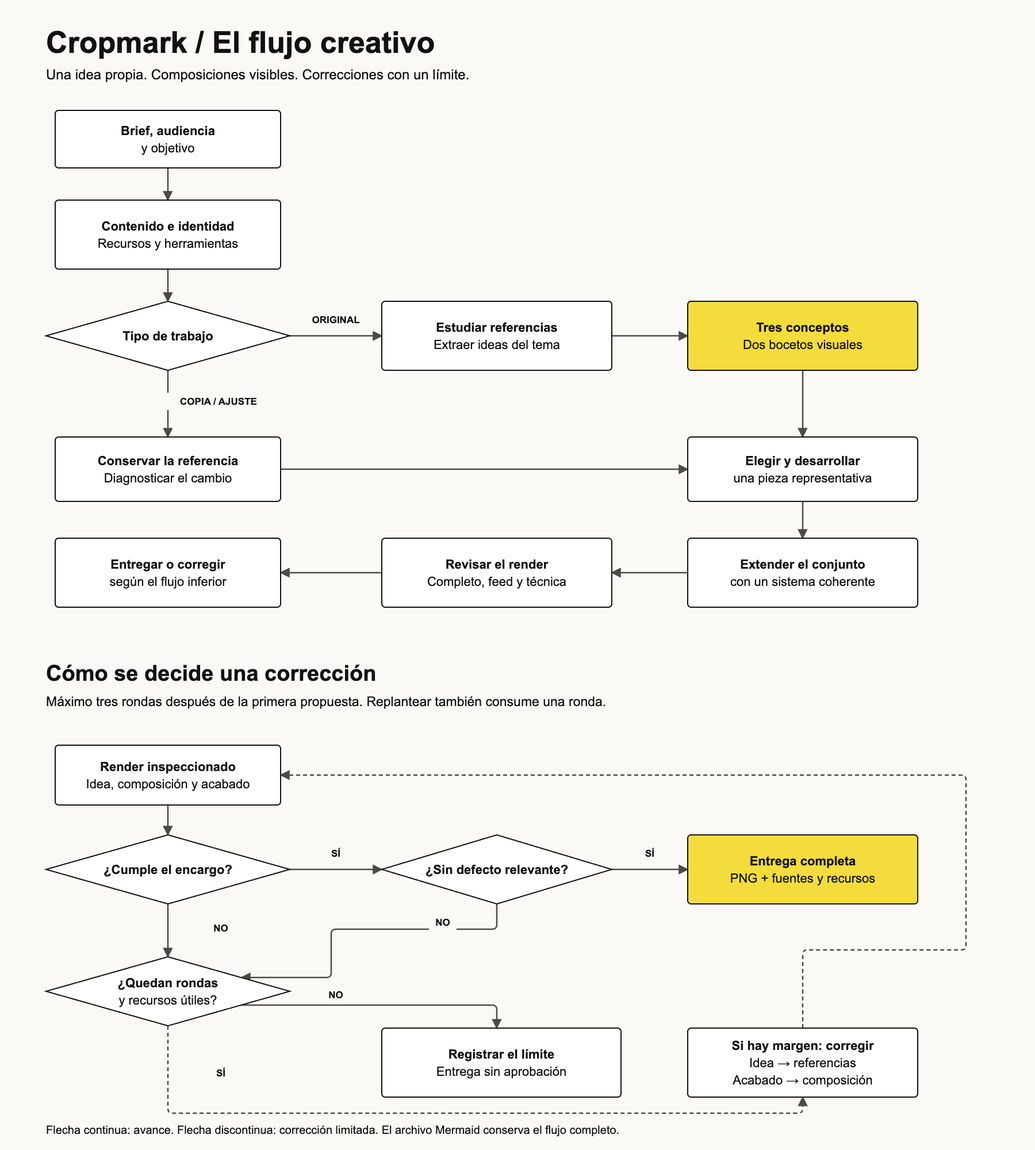
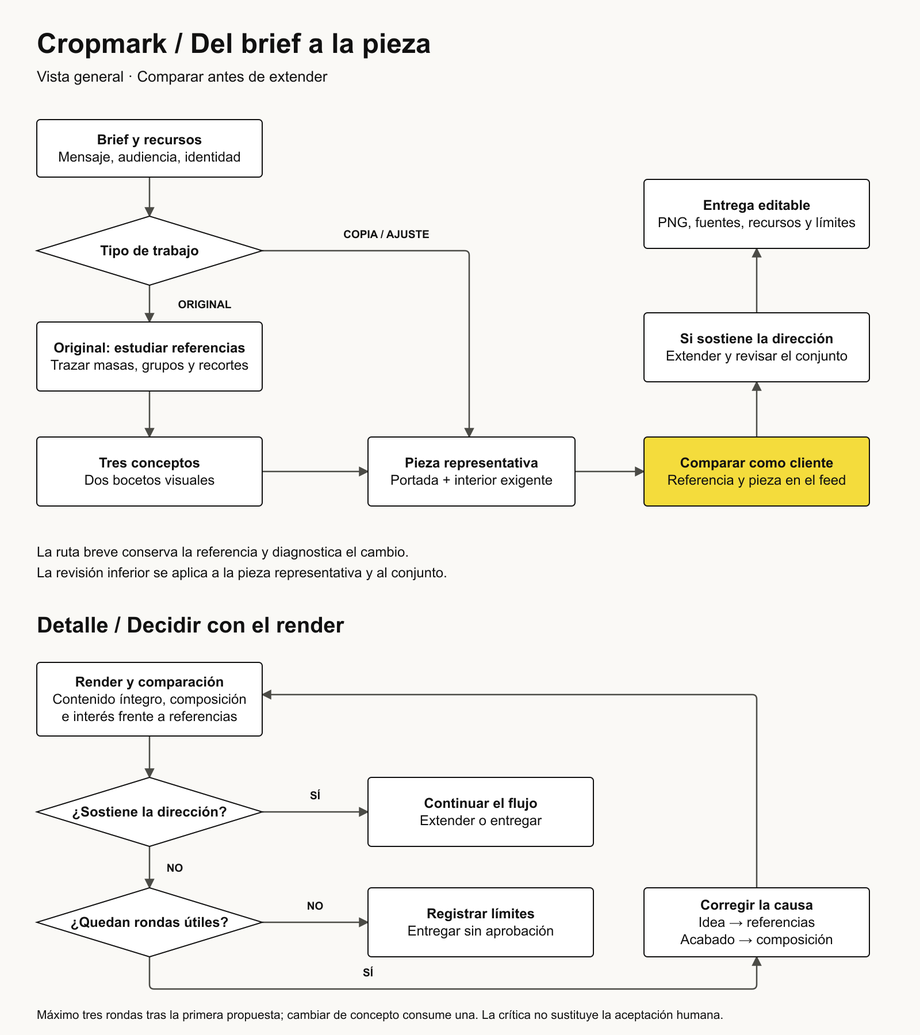
feat: compare measured compositions before extending designs

diff --git a/docs/visuals/creative-flow.html b/docs/visuals/creative-flow.html
@@ -1,1 +1,1 @@
-<!doctype html><html lang="es"><meta charset="utf-8"><meta name="viewport" content="width=device-width,initial-scale=1"><title>Cropmark · flujo creativo</title><style>body{margin:0;background:#faf9f6;color:#111;font-family:Arial,sans-serif}main{max-width:1200px;margin:auto;padding:56px 32px}h1{font-size:48px;letter-spacing:-.04em;line-height:1.05;max-width:900px}h2{font-size:25px;margin:0 0 12px}p{font-size:17px;line-height:1.5;max-width:900px}a{color:inherit}section{margin:48px 0 72px}figure{margin:20px 0}svg text{font-family:Arial,sans-serif}svg{width:100%;height:auto}figcaption,.note{font-size:14px;color:#4b4b46}article{break-inside:avoid} .pair{display:grid;grid-template-columns:1fr 1fr;gap:24px}.panel{background:#eeeae0;padding:20px} .label{font-size:14px;font-weight:700} @media(max-width:700px){.pair{grid-template-columns:1fr}h1{font-size:36px}}</style><main><div style="overflow-x:auto"><svg xmlns="http://www.w3.org/2000/svg" viewBox="0 0 1800 2000" role="img" aria-labelledby="flow-title flow-desc"><title id="flow-title">Cropmark: del brief a la revisión</title><desc id="flow-desc">El trabajo original explora conceptos y bocetos; la copia fiel toma una ruta breve, y la revisión permite hasta tres correcciones antes de entregar o declarar límites.</desc><defs><style>body{margin:0;background:#faf9f6;color:#111;font-family:Arial,sans-serif}main{max-width:1200px;margin:auto;padding:56px 32px}h1{font-size:48px;letter-spacing:-.04em;line-height:1.05;max-width:900px}h2{font-size:25px;margin:0 0 12px}p{font-size:17px;line-height:1.5;max-width:900px}a{color:inherit}section{margin:48px 0 72px}figure{margin:20px 0}svg text{font-family:Arial,sans-serif}svg{width:100%;height:auto}figcaption,.note{font-size:14px;color:#4b4b46}article{break-inside:avoid} .pair{display:grid;grid-template-columns:1fr 1fr;gap:24px}.panel{background:#eeeae0;padding:20px} .label{font-size:14px;font-weight:700} @media(max-width:700px){.pair{grid-template-columns:1fr}h1{font-size:36px}}</style><marker id="flow-arrow" viewBox="0 0 10 10" refX="9" refY="5" markerWidth="7" markerHeight="7" orient="auto"><path d="M0 0 L10 5 L0 10 Z" fill="#4b4b46"/></marker></defs><rect width="1800" height="2000" fill="#faf9f6"/><text x="80" y="92" font-size="52" font-weight="700" fill="#111" text-anchor="start">Cropmark / El flujo creativo</text><text x="80" y="138" font-size="24" font-weight="400" fill="#111" text-anchor="start">Una idea propia. Composiciones visibles. Correcciones con un límite.</text><path d="M292 292 L292 348" fill="none" stroke="#4b4b46" stroke-width="2.5" marker-end="url(#flow-arrow)"/><path d="M292 468 L292 524" fill="none" stroke="#4b4b46" stroke-width="2.5" marker-end="url(#flow-arrow)"/><path d="M504 584 L664 584" fill="none" stroke="#4b4b46" stroke-width="2.5" marker-end="url(#flow-arrow)"/><path d="M1064 584 L1196 584" fill="none" stroke="#4b4b46" stroke-width="2.5" marker-end="url(#flow-arrow)"/><path d="M292 644 L292 760" fill="none" stroke="#4b4b46" stroke-width="2.5" marker-end="url(#flow-arrow)"/><path d="M488 816 L1196 816" fill="none" stroke="#4b4b46" stroke-width="2.5" marker-end="url(#flow-arrow)"/><path d="M1396 644 L1396 760" fill="none" stroke="#4b4b46" stroke-width="2.5" marker-end="url(#flow-arrow)"/><path d="M1396 872 L1396 936" fill="none" stroke="#4b4b46" stroke-width="2.5" marker-end="url(#flow-arrow)"/><path d="M1196 996 L1064 996" fill="none" stroke="#4b4b46" stroke-width="2.5" marker-end="url(#flow-arrow)"/><path d="M664 996 L488 996" fill="none" stroke="#4b4b46" stroke-width="2.5" marker-end="url(#flow-arrow)"/><rect x="524.0" y="541" width="120" height="30" fill="#faf9f6"/><text x="584" y="562" font-size="17" font-weight="700" fill="#111" text-anchor="middle">ORIGINAL</text><rect x="284.0" y="683" width="192" height="30" fill="#faf9f6"/><text x="380" y="704" font-size="17" font-weight="700" fill="#111" text-anchor="middle">COPIA / AJUSTE</text><rect x="96" y="192" width="392" height="100" rx="6" fill="#fff" stroke="#111" stroke-width="2"/><text x="292.0" y="235.0" font-size="22" font-weight="700" fill="#111" text-anchor="middle">Brief, audiencia</text><text x="292.0" y="265.0" font-size="22" font-weight="400" fill="#111" text-anchor="middle">y objetivo</text><rect x="96" y="348" width="392" height="120" rx="6" fill="#fff" stroke="#111" stroke-width="2"/><text x="292.0" y="401.0" font-size="22" font-weight="700" fill="#111" text-anchor="middle">Contenido e identidad</text><text x="292.0" y="431.0" font-size="22" font-weight="400" fill="#111" text-anchor="middle">Recursos y herramientas</text><polygon points="80,584.0 292.0,524 504,584.0 292.0,644" fill="#fff" stroke="#111" stroke-width="2"/><text x="292.0" y="592.0" font-size="22" font-weight="700" fill="#111" text-anchor="middle">Tipo de trabajo</text><rect x="664" y="524" width="400" height="120" rx="6" fill="#fff" stroke="#111" stroke-width="2"/><text x="864.0" y="577.0" font-size="22" font-weight="700" fill="#111" text-anchor="middle">Estudiar referencias</text><text x="864.0" y="607.0" font-size="22" font-weight="400" fill="#111" text-anchor="middle">Extraer ideas del tema</text><rect x="1196" y="524" width="400" height="120" rx="6" fill="#F4DC3C" stroke="#111" stroke-width="2"/><text x="1396.0" y="577.0" font-size="22" font-weight="700" fill="#111" text-anchor="middle">Tres conceptos</text><text x="1396.0" y="607.0" font-size="22" font-weight="400" fill="#111" text-anchor="middle">Dos bocetos visuales</text><rect x="96" y="760" width="392" height="112" rx="6" fill="#fff" stroke="#111" stroke-width="2"/><text x="292.0" y="809.0" font-size="22" font-weight="700" fill="#111" text-anchor="middle">Conservar la referencia</text><text x="292.0" y="839.0" font-size="22" font-weight="400" fill="#111" text-anchor="middle">Diagnosticar el cambio</text><rect x="1196" y="760" width="400" height="112" rx="6" fill="#fff" stroke="#111" stroke-width="2"/><text x="1396.0" y="809.0" font-size="22" font-weight="700" fill="#111" text-anchor="middle">Elegir y desarrollar</text><text x="1396.0" y="839.0" font-size="22" font-weight="400" fill="#111" text-anchor="middle">una pieza representativa</text><rect x="1196" y="936" width="400" height="120" rx="6" fill="#fff" stroke="#111" stroke-width="2"/><text x="1396.0" y="989.0" font-size="22" font-weight="700" fill="#111" text-anchor="middle">Extender el conjunto</text><text x="1396.0" y="1019.0" font-size="22" font-weight="400" fill="#111" text-anchor="middle">con un sistema coherente</text><rect x="664" y="936" width="400" height="120" rx="6" fill="#fff" stroke="#111" stroke-width="2"/><text x="864.0" y="989.0" font-size="22" font-weight="700" fill="#111" text-anchor="middle">Revisar el render</text><text x="864.0" y="1019.0" font-size="22" font-weight="400" fill="#111" text-anchor="middle">Completo, feed y técnica</text><rect x="96" y="936" width="392" height="120" rx="6" fill="#fff" stroke="#111" stroke-width="2"/><text x="292.0" y="989.0" font-size="22" font-weight="700" fill="#111" text-anchor="middle">Entregar o corregir</text><text x="292.0" y="1019.0" font-size="22" font-weight="400" fill="#111" text-anchor="middle">según el flujo inferior</text><text x="80" y="1184" font-size="38" font-weight="700" fill="#111" text-anchor="start">Cómo se decide una corrección</text><text x="80" y="1228" font-size="23" font-weight="400" fill="#111" text-anchor="start">Máximo tres rondas después de la primera propuesta. Replantear también consume una ronda.</text><path d="M292 1400 L292 1452" fill="none" stroke="#4b4b46" stroke-width="2.5" marker-end="url(#flow-arrow)"/><path d="M504 1512 L664 1512" fill="none" stroke="#4b4b46" stroke-width="2.5" marker-end="url(#flow-arrow)"/><path d="M1064 1512 L1196 1512" fill="none" stroke="#4b4b46" stroke-width="2.5" marker-end="url(#flow-arrow)"/><path d="M292 1572 L292 1664" fill="none" stroke="#4b4b46" stroke-width="2.5" marker-end="url(#flow-arrow)"/><path d="M420 1748 L856.0 1748.0 Q864 1748 864.0 1756.0 L864 1788" fill="none" stroke="#4b4b46" stroke-width="2.5" marker-end="url(#flow-arrow)"/><path d="M864 1572 L864.0 1608.0 Q864 1616 856.0 1616.0 L584.0 1616.0 Q576 1616 576.0 1624.0 L576.0 1692.0 Q576 1700 568.0 1700.0 L420 1700" fill="none" stroke="#4b4b46" stroke-width="2.5" marker-end="url(#flow-arrow)"/><path d="M1396 1788 L1396.0 1660.0 Q1396 1652 1404.0 1652.0 L1672.0 1652.0 Q1680 1652 1680.0 1644.0 L1680.0 1356.0 Q1680 1348 1672.0 1348.0 L488 1348" fill="none" stroke="#4b4b46" stroke-width="2.5" marker-end="url(#flow-arrow)" stroke-dasharray="7 5"/><rect x="746.0" y="1589" width="48" height="30" fill="#faf9f6"/><text x="770" y="1610" font-size="17" font-weight="700" fill="#111" text-anchor="middle">NO</text><rect x="560.0" y="1469" width="48" height="30" fill="#faf9f6"/><text x="584" y="1490" font-size="17" font-weight="700" fill="#111" text-anchor="middle">SÍ</text><rect x="1106.0" y="1469" width="48" height="30" fill="#faf9f6"/><text x="1130" y="1490" font-size="17" font-weight="700" fill="#111" text-anchor="middle">SÍ</text><rect x="360.0" y="1599" width="48" height="30" fill="#faf9f6"/><text x="384" y="1620" font-size="17" font-weight="700" fill="#111" text-anchor="middle">NO</text><rect x="560.0" y="1715" width="48" height="30" fill="#faf9f6"/><text x="584" y="1736" font-size="17" font-weight="700" fill="#111" text-anchor="middle">NO</text><rect x="96" y="1296" width="392" height="104" rx="6" fill="#fff" stroke="#111" stroke-width="2"/><text x="292.0" y="1341.0" font-size="22" font-weight="700" fill="#111" text-anchor="middle">Render inspeccionado</text><text x="292.0" y="1371.0" font-size="22" font-weight="400" fill="#111" text-anchor="middle">Idea, composición y acabado</text><polygon points="80,1512.0 292.0,1452 504,1512.0 292.0,1572" fill="#fff" stroke="#111" stroke-width="2"/><text x="292.0" y="1520.0" font-size="22" font-weight="700" fill="#111" text-anchor="middle">¿Cumple el encargo?</text><polygon points="664,1512.0 864.0,1452 1064,1512.0 864.0,1572" fill="#fff" stroke="#111" stroke-width="2"/><text x="864.0" y="1520.0" font-size="22" font-weight="700" fill="#111" text-anchor="middle">¿Sin defecto relevante?</text><rect x="1196" y="1452" width="400" height="120" rx="6" fill="#F4DC3C" stroke="#111" stroke-width="2"/><text x="1396.0" y="1505.0" font-size="22" font-weight="700" fill="#111" text-anchor="middle">Entrega completa</text><text x="1396.0" y="1535.0" font-size="22" font-weight="400" fill="#111" text-anchor="middle">PNG + fuentes y recursos</text><polygon points="80,1724.0 292.0,1664 504,1724.0 292.0,1784" fill="#fff" stroke="#111" stroke-width="2"/><text x="292.0" y="1717.0" font-size="22" font-weight="700" fill="#111" text-anchor="middle">¿Quedan rondas</text><text x="292.0" y="1747.0" font-size="22" font-weight="400" fill="#111" text-anchor="middle">y recursos útiles?</text><rect x="664" y="1788" width="416" height="120" rx="6" fill="#fff" stroke="#111" stroke-width="2"/><text x="872.0" y="1841.0" font-size="22" font-weight="700" fill="#111" text-anchor="middle">Registrar el límite</text><text x="872.0" y="1871.0" font-size="22" font-weight="400" fill="#111" text-anchor="middle">Entrega sin aprobación</text><rect x="1196" y="1788" width="400" height="120" rx="6" fill="#fff" stroke="#111" stroke-width="2"/><text x="1396.0" y="1826.0" font-size="22" font-weight="700" fill="#111" text-anchor="middle">Si hay margen: corregir</text><text x="1396.0" y="1856.0" font-size="22" font-weight="400" fill="#111" text-anchor="middle">Idea → referencias</text><text x="1396.0" y="1886.0" font-size="22" font-weight="400" fill="#111" text-anchor="middle">Acabado → composición</text><path d="M292 1784 L292.0 1928.0 Q292 1936 300.0 1936.0 L1388.0 1936.0 Q1396 1936 1396.0 1928.0 L1396 1908" fill="none" stroke="#4b4b46" stroke-width="2.5" marker-end="url(#flow-arrow)" stroke-dasharray="7 5"/><rect x="360.0" y="1851" width="48" height="30" fill="#faf9f6"/><text x="384" y="1872" font-size="17" font-weight="700" fill="#111" text-anchor="middle">SÍ</text><text x="80" y="1972" font-size="20" font-weight="400" fill="#111" text-anchor="start">Flecha continua: avance. Flecha discontinua: corrección limitada. El archivo Mermaid conserva el flujo completo.</text></svg></div><p>Lectura condensada: «tres conceptos» y «dos bocetos» comparten una estación; el detalle inferior hace explícito el límite. La corrección vuelve a revisar el render. El Mermaid editable conserva todos los pasos del plan original.</p></main></html>
+<!doctype html><html lang="es"><meta charset="utf-8"><meta name="viewport" content="width=device-width,initial-scale=1"><title>Cropmark · flujo creativo</title><style>body{margin:0;background:#faf9f6}.scroller{overflow-x:auto}svg{display:block;width:1600px;min-width:1600px;height:1800px}</style><div class="scroller"><svg xmlns="http://www.w3.org/2000/svg" viewBox="0 0 1600 1800" role="img" aria-labelledby="creative-flow-title creative-flow-desc"><title id="creative-flow-title">Cropmark: concebir, comparar y corregir</title><desc id="creative-flow-desc">El trabajo original explora direcciones, compara una pieza representativa antes de extender el conjunto y corrige hasta tres veces; los ajustes concretos tienen una ruta abreviada.</desc><defs><marker id="cm-arrow" viewBox="0 0 10 10" refX="9" refY="5" markerWidth="7" markerHeight="7" orient="auto"><path d="M0 0 L10 5 L0 10 Z" fill="#4b4b46"/></marker></defs><rect width="1600" height="1800" fill="#faf9f6"/><text x="64" y="92" font-family="Arial,sans-serif" font-size="48" font-weight="700" text-anchor="start" fill="#111111">Cropmark / Del brief a la pieza</text><text x="64" y="142" font-family="Arial,sans-serif" font-size="26" font-weight="400" text-anchor="start" fill="#111111">Vista general · Comparar antes de extender</text><path d="M260 308 L260 376" fill="none" stroke="#4b4b46" stroke-width="2.5" marker-end="url(#cm-arrow)"/><path d="M260 496 L260 560" fill="none" stroke="#4b4b46" stroke-width="2.5" marker-end="url(#cm-arrow)"/><path d="M260 680 L260 760" fill="none" stroke="#4b4b46" stroke-width="2.5" marker-end="url(#cm-arrow)"/><path d="M456 820 L640 820" fill="none" stroke="#4b4b46" stroke-width="2.5" marker-end="url(#cm-arrow)"/><path d="M1000 820 L1120 820" fill="none" stroke="#4b4b46" stroke-width="2.5" marker-end="url(#cm-arrow)"/><path d="M1316 760 L1316 664" fill="none" stroke="#4b4b46" stroke-width="2.5" marker-end="url(#cm-arrow)"/><path d="M1316 544 L1316 432" fill="none" stroke="#4b4b46" stroke-width="2.5" marker-end="url(#cm-arrow)"/><path d="M456 436 L808.0 436.0 Q816 436 816.0 444.0 L816 760" fill="none" stroke="#4b4b46" stroke-width="2.5" marker-end="url(#cm-arrow)"/><rect x="64" y="208" width="392" height="100" rx="6" fill="#ffffff" stroke="#111111" stroke-width="2"/><text x="260.0" y="251.0" font-family="Arial,sans-serif" font-size="24" font-weight="700" text-anchor="middle" fill="#111111">Brief y recursos</text><text x="260.0" y="281.0" font-family="Arial,sans-serif" font-size="24" font-weight="400" text-anchor="middle" fill="#111111">Mensaje, audiencia, identidad</text><polygon points="64,436.0 260.0,376 456,436.0 260.0,496" fill="#ffffff" stroke="#111111" stroke-width="2"/><text x="260.0" y="444.0" font-family="Arial,sans-serif" font-size="24" font-weight="700" text-anchor="middle" fill="#111111">Tipo de trabajo</text><rect x="64" y="560" width="392" height="120" rx="6" fill="#ffffff" stroke="#111111" stroke-width="2"/><text x="260.0" y="613.0" font-family="Arial,sans-serif" font-size="24" font-weight="700" text-anchor="middle" fill="#111111">Original: estudiar referencias</text><text x="260.0" y="643.0" font-family="Arial,sans-serif" font-size="24" font-weight="400" text-anchor="middle" fill="#111111">Trazar masas, grupos y recortes</text><rect x="64" y="760" width="392" height="120" rx="6" fill="#ffffff" stroke="#111111" stroke-width="2"/><text x="260.0" y="813.0" font-family="Arial,sans-serif" font-size="24" font-weight="700" text-anchor="middle" fill="#111111">Tres conceptos</text><text x="260.0" y="843.0" font-family="Arial,sans-serif" font-size="24" font-weight="400" text-anchor="middle" fill="#111111">Dos bocetos visuales</text><rect x="640" y="760" width="360" height="120" rx="6" fill="#ffffff" stroke="#111111" stroke-width="2"/><text x="820.0" y="813.0" font-family="Arial,sans-serif" font-size="24" font-weight="700" text-anchor="middle" fill="#111111">Pieza representativa</text><text x="820.0" y="843.0" font-family="Arial,sans-serif" font-size="24" font-weight="400" text-anchor="middle" fill="#111111">Portada + interior exigente</text><rect x="1120" y="760" width="392" height="120" rx="6" fill="#f4dc3c" stroke="#111111" stroke-width="2"/><text x="1316.0" y="813.0" font-family="Arial,sans-serif" font-size="24" font-weight="700" text-anchor="middle" fill="#111111">Comparar como cliente</text><text x="1316.0" y="843.0" font-family="Arial,sans-serif" font-size="24" font-weight="400" text-anchor="middle" fill="#111111">Referencia y pieza en el feed</text><rect x="1120" y="544" width="392" height="120" rx="6" fill="#ffffff" stroke="#111111" stroke-width="2"/><text x="1316.0" y="597.0" font-family="Arial,sans-serif" font-size="24" font-weight="700" text-anchor="middle" fill="#111111">Si sostiene la dirección</text><text x="1316.0" y="627.0" font-family="Arial,sans-serif" font-size="24" font-weight="400" text-anchor="middle" fill="#111111">Extender y revisar el conjunto</text><rect x="1120" y="312" width="392" height="120" rx="6" fill="#ffffff" stroke="#111111" stroke-width="2"/><text x="1316.0" y="365.0" font-family="Arial,sans-serif" font-size="24" font-weight="700" text-anchor="middle" fill="#111111">Entrega editable</text><text x="1316.0" y="395.0" font-family="Arial,sans-serif" font-size="24" font-weight="400" text-anchor="middle" fill="#111111">PNG, fuentes, recursos y límites</text><rect x="292.0" y="513" width="128" height="32" fill="#faf9f6"/><text x="356" y="536" font-family="Arial,sans-serif" font-size="19" font-weight="700" text-anchor="middle" fill="#111111">ORIGINAL</text><rect x="569.0" y="391" width="206" height="32" fill="#faf9f6"/><text x="672" y="414" font-family="Arial,sans-serif" font-size="19" font-weight="700" text-anchor="middle" fill="#111111">COPIA / AJUSTE</text><text x="64" y="968" font-family="Arial,sans-serif" font-size="24" font-weight="400" text-anchor="start" fill="#111111">La ruta breve conserva la referencia y diagnostica el cambio.</text><text x="64" y="1004" font-family="Arial,sans-serif" font-size="24" font-weight="400" text-anchor="start" fill="#111111">La revisión inferior se aplica a la pieza representativa y al conjunto.</text><text x="64" y="1100" font-family="Arial,sans-serif" font-size="38" font-weight="700" text-anchor="start" fill="#111111">Detalle / Decidir con el render</text><path d="M260 1280 L260 1352" fill="none" stroke="#4b4b46" stroke-width="2.5" marker-end="url(#cm-arrow)"/><path d="M456 1412 L640 1412" fill="none" stroke="#4b4b46" stroke-width="2.5" marker-end="url(#cm-arrow)"/><path d="M260 1472 L260 1544" fill="none" stroke="#4b4b46" stroke-width="2.5" marker-end="url(#cm-arrow)"/><path d="M456 1604 L640 1604" fill="none" stroke="#4b4b46" stroke-width="2.5" marker-end="url(#cm-arrow)"/><path d="M260 1664 L260.0 1712.0 Q260 1720 268.0 1720.0 L1308.0 1720.0 Q1316 1720 1316.0 1712.0 L1316 1664" fill="none" stroke="#4b4b46" stroke-width="2.5" marker-end="url(#cm-arrow)"/><path d="M1316 1544 L1316.0 1216.0 Q1316 1208 1308.0 1208.0 L456 1208" fill="none" stroke="#4b4b46" stroke-width="2.5" marker-end="url(#cm-arrow)"/><rect x="64" y="1152" width="392" height="128" rx="6" fill="#ffffff" stroke="#111111" stroke-width="2"/><text x="260.0" y="1194.0" font-family="Arial,sans-serif" font-size="24" font-weight="700" text-anchor="middle" fill="#111111">Render y comparación</text><text x="260.0" y="1224.0" font-family="Arial,sans-serif" font-size="24" font-weight="400" text-anchor="middle" fill="#111111">Contenido íntegro, composición</text><text x="260.0" y="1254.0" font-family="Arial,sans-serif" font-size="24" font-weight="400" text-anchor="middle" fill="#111111">e interés frente a referencias</text><polygon points="64,1412.0 260.0,1352 456,1412.0 260.0,1472" fill="#ffffff" stroke="#111111" stroke-width="2"/><text x="260.0" y="1420.0" font-family="Arial,sans-serif" font-size="24" font-weight="700" text-anchor="middle" fill="#111111">¿Sostiene la dirección?</text><rect x="640" y="1352" width="392" height="120" rx="6" fill="#ffffff" stroke="#111111" stroke-width="2"/><text x="836.0" y="1405.0" font-family="Arial,sans-serif" font-size="24" font-weight="700" text-anchor="middle" fill="#111111">Continuar el flujo</text><text x="836.0" y="1435.0" font-family="Arial,sans-serif" font-size="24" font-weight="400" text-anchor="middle" fill="#111111">Extender o entregar</text><polygon points="64,1604.0 260.0,1544 456,1604.0 260.0,1664" fill="#ffffff" stroke="#111111" stroke-width="2"/><text x="260.0" y="1612.0" font-family="Arial,sans-serif" font-size="24" font-weight="700" text-anchor="middle" fill="#111111">¿Quedan rondas útiles?</text><rect x="640" y="1544" width="392" height="120" rx="6" fill="#ffffff" stroke="#111111" stroke-width="2"/><text x="836.0" y="1597.0" font-family="Arial,sans-serif" font-size="24" font-weight="700" text-anchor="middle" fill="#111111">Registrar límites</text><text x="836.0" y="1627.0" font-family="Arial,sans-serif" font-size="24" font-weight="400" text-anchor="middle" fill="#111111">Entregar sin aprobación</text><rect x="1120" y="1544" width="392" height="120" rx="6" fill="#ffffff" stroke="#111111" stroke-width="2"/><text x="1316.0" y="1582.0" font-family="Arial,sans-serif" font-size="24" font-weight="700" text-anchor="middle" fill="#111111">Corregir la causa</text><text x="1316.0" y="1612.0" font-family="Arial,sans-serif" font-size="24" font-weight="400" text-anchor="middle" fill="#111111">Idea → referencias</text><text x="1316.0" y="1642.0" font-family="Arial,sans-serif" font-size="24" font-weight="400" text-anchor="middle" fill="#111111">Acabado → composición</text><rect x="523.0" y="1367" width="50" height="32" fill="#faf9f6"/><text x="548" y="1390" font-family="Arial,sans-serif" font-size="19" font-weight="700" text-anchor="middle" fill="#111111">SÍ</text><rect x="279.0" y="1493" width="50" height="32" fill="#faf9f6"/><text x="304" y="1516" font-family="Arial,sans-serif" font-size="19" font-weight="700" text-anchor="middle" fill="#111111">NO</text><rect x="523.0" y="1559" width="50" height="32" fill="#faf9f6"/><text x="548" y="1582" font-family="Arial,sans-serif" font-size="19" font-weight="700" text-anchor="middle" fill="#111111">NO</text><rect x="615.0" y="1675" width="50" height="32" fill="#faf9f6"/><text x="640" y="1698" font-family="Arial,sans-serif" font-size="19" font-weight="700" text-anchor="middle" fill="#111111">SÍ</text><text x="64" y="1772" font-family="Arial,sans-serif" font-size="21" font-weight="400" text-anchor="start" fill="#111111">Máximo tres rondas tras la primera propuesta; cambiar de concepto consume una. La crítica no sustituye la aceptación humana.</text></svg></div></html>

diff --git a/skills/cropmark/references/composition-study.md b/skills/cropmark/references/composition-study.md
@@ -1,0 +1,46 @@
+# Compare the composition, not the explanation
+
+Use this for original work, substantial redesign and visual critique. A tidy layout can still be an unattractive advertisement or a weak thumbnail. Judge the artifact in its audience's situation: what would make someone want this product, understand this argument or open this video?
+
+## Choose a useful comparator
+
+Inspect two actual finished pieces close to this task: communication goal, format, content density and available imagery. A bakery ad is a closer appetite benchmark than a studio branding board. A product advert and a quiet catalogue can both be good, but do different jobs. The atlas is a starting index; search beyond it when its examples do not match. A moodboard, title, author claim or search thumbnail is not an inspected final artwork. Record missing evidence honestly.
+
+Study mechanisms across references rather than averaging their styles. Keep the original frame separate from mockup borders and browser chrome. Do not compare a polished packaging photograph against a flat post without identifying that difference.
+
+## Trace relationships before setting coordinates
+
+In the project's direction record, retain one compact reference trace, with a source link and the inspected image:
+
+- **Masses:** approximate headline-group, subject and brand ink bounds as fractions of the artwork's width/height. Measure visible logo ink, excluding transparent padding. Distinguish type size, cap height and complete wordmark width; “logo at 3%” is ambiguous.
+- **Groups:** identify which words form one phrase and which are separate support. Record their ink gaps, relative to adjacent letter height, and the group's anchor. A face change is not a reason to detach half a sentence. Equal gaps between every block are not required: proximity communicates meaning.
+- **Space:** compare the outer margins of the whole group, insets of fitted panels, and useful space reserved for the subject. For rotated panels, inspect spacing in the panel's own axes. Do not mistake a broad colour field for an accidentally oversized label.
+- **Image:** identify the recognisable parts that must survive, what is intentionally cropped, the eye path, and whether a subject is grounded, floating or behind type. Record the actual source-to-frame crop, not merely `cover` or `fit`.
+- **Brand:** choose a role: quiet signature, equal partner, or primary subject. Place it on a named axis or in a real containing region. For a centred lockup compare visible ink gaps; for editorial alignment share an edge. Neither a footer bar nor centring every logo is a default.
+
+Estimates are not hidden design specifications. Mark their uncertainty and use them to choose relationships for this brief. Do not impose a reference's percentages universally. Declare the intended gaps, anchors and crop decisions before rendering; do not derive permissive maxima from a bad final layout just to obtain PASS.
+
+## Make the image serve its role
+
+**Hero/product recognition:** preserve enough silhouette and identifying detail to understand and desire the product. Check closures, handles, printed identity, food's crust/crumb and the outline carrying recognition. A tightly cropped texture can be convincing, but cannot silently stand in for the only product introduction.
+
+**Detail/texture:** choose a deliberate detail, a scale at which its material reads, and a crop that looks decisive. A series needs a recognisable hero somewhere; three unrelated crops of one photo do not automatically create three campaign ideas.
+
+**Scene/event:** identify what is happening or about to happen. Enlarging a detached title does not strengthen an unexplained scene. Place words and subject in a shared reading route; preserve the clue that makes this particular headline meaningful at feed size.
+
+Inspect the source before committing. If it already cuts off the required subject, no layout trick restores missing pixels. For a fictional generated asset, revise the photography brief or generate a suitable view when authorized. Preserve a real supplied product; change the framing or disclose the limitation rather than inventing its missing identity. Specify camera/view, subject placement, copy space, complete versus close-up framing and physical contact when sourcing or generating imagery.
+
+Shapes and lines must participate: a real label, a comparison, an object support, a crop mask, a meaningful typographic gesture or a supplied brand language. An orange doorway surrounding an everyday bottle is not specific merely because its rationale says “routine.” Do not replace every frame with a circle, every rule with an asterisk, or every body with a fashionable serif.
+
+## Review as viewer, then as art director
+
+Put the representative and its close comparator beside each other at the same target display size. First inspect without reading the rationale:
+
+1. What do I recognise first, and what does the image make me expect? Does that match the actual message?
+2. What is the attractive or informative proposition? Is the subject inviting/convincing, or merely present in a clean rectangle?
+3. Where is ours visibly weaker: title/subject relationship, material, crop, typographic rhythm, density, brand placement or finish? Name the region and consequence. “Looks professional” and a 4/5 score are not observations.
+4. Does the complete phrase read as one thought? Does the logo look placed deliberately? Is any required text/identity clipped? Are near contacts accidental, or do contact/overlap and lighting visibly establish the intended relationship?
+
+Then inspect full size for masks, glyphs and precise spacing. Keep three concrete comparison observations in the record; if a reference outperforms the piece, correct the underlying cause before extending the set. If no fair comparator is inspectable, record that limitation rather than claiming reference-level finish. Use an independent reviewer when available; otherwise perform a separate viewer pass and disclose that it is self-review.
+
+The maximum three correction rounds still applies. At the limit report the unresolved visual gap; a geometrically valid file is not visual acceptance. A deliberately expressive crop, asymmetric grid or tiny functional signature can pass when its observed effect supports the task. A written justification alone cannot make it pass.

diff --git a/skills/cropmark/references/art-direction.md b/skills/cropmark/references/art-direction.md
@@ -4,7 +4,7 @@
 Finish with a compact contract: required message/copy; viewer; intended response; real assets and identity; count/size; permitted changes. Separate facts from sample content. Inventory five to ten concrete things belonging to this subject: an object, gesture, material, constraint, ritual, place, product feature or contrast. If essential facts are absent, choose a concept that does not fabricate them.
 
 ## 2. Read references as decisions
-Choose two to four pertinent entries from `../refs/atlas.md`, open the actual images when available, and name the useful mechanism. Separate what was observed from what was inferred. Search the subject's objects and world, not just its industry. Borrow a relationship (scale, framing, type interacting with an object), then supply this brief's idea and content. If the images cannot be inspected, mark the reference unverified and work from an inspected alternative or the brief.
+Read `composition-study.md`. Inspect two comparable finished pieces, using `../refs/atlas.md` as a starting index rather than a closed reference bank. Match communication goal, format, density and asset conditions; a distant mood reference is not enough to judge craft. Trace visible type/subject/brand masses, phrase gaps, axes and crops in the direction record before rendering. Separate observed estimates from inferred intent. Borrow a relationship, then supply this brief's idea and content. If no close image can be inspected, record the limitation and do not claim equivalent finish.
 
 ## 3. Diverge, then compare
 Before any render, save three short concept sentences in the project’s direction.md, each linking message → visible device → audience response. For a set, add one line per planned frame with its narrative role. This compact record is required; a later rationale cannot establish that planning happened before rendering. Run the competitor test: if replacing the name leaves the idea equally valid, find a more specific subject detail. This is diagnostic, not a requirement that no other brand could ever use a technique.
@@ -16,9 +16,11 @@ Stage boundary: render and inspect the two sketches before invoking a developed-
 ## 4. Develop before expanding
 Resolve the representative piece: largest mass, image/type relationship, actual font files and breaks, colour roles, margins and spacing. For a carousel, resolve cover plus the most demanding interior slide, with the full sequence mapped. For a campaign, resolve one hero and one contrasting role. Revisit a direction that only works with imaginary assets.
 
-Render only the representative frame(s) first. Inspect their actual full-size and feed images, record the visible result, and resolve the consequential issues before rendering the remaining frames. Use a frame selection or a separate representative render command; do not use an all-frames batch as a shortcut. Once those representative images sustain the direction, extend the same system to the rest. If a tool cannot select frames, create a small representative-only document first.
+Render only the representative frame(s) first. Inspect their actual full-size and feed images, record the visible result, and resolve the consequential issues before rendering the remaining frames. Use a frame selection or a separate representative render command; do not use an all-frames batch as a shortcut. Before extension, place the representative beside the close comparator at the same feed size. Record three concrete differences in viewer impact and craft, and correct the most consequential gap. A high self-score is not this review. Once those representative images sustain the direction, extend the same system to the rest. If a tool cannot select frames, create a small representative-only document first.
 
 ## 5. Inspect and correct
+Before expanding a substantial original set, follow `visual-critic.md` for a fresh viewer/client critique when native delegation is available and authorized. Withhold the producer's rationale and self-scores. A consequential weakness in the representative is corrected within the same three-round allowance before extension; otherwise report the unresolved gap.
+
 Use `../qa/checklist.md` and `visual-rules.md` on full-size and feed renders. Fix idea first, then hierarchy/composition, type, imagery and detail. A weak concept can be replaced within the three-round allowance; cosmetic polishing does not repair an empty premise. Stop early when no relevant observed defect remains. A self-score alone is not that observation.
 
 ## Short route

diff --git a/skills/cropmark/SKILL.md b/skills/cropmark/SKILL.md
@@ -22,7 +22,7 @@ Read `references/art-direction.md` for original work or a substantial redesign; 
 | Generated / found imagery | `techniques/imagery.md` |
 | Other ratios | `formats/other.md` |
 | Geometry / finishing | `references/visual-rules.md`; examples in `references/rulebook.html` |
-| References | `refs/atlas.md`; choose mechanisms, not a category preset |
+| References and visual critique | `references/composition-study.md` + `refs/atlas.md`; inspect comparable final pieces and their relationships |
 | Render | `engines/pillow/README.md` or `engines/html/README.md` |
 | Review and delivery | `qa/checklist.md` + `qa/rubric.md` |
 
@@ -33,6 +33,7 @@ Record required copy, facts, identity, count, dimensions, editability and permit
 - Before the first render of original work, save `direction.md`: three concept sentences and, for a set, the role of each planned frame. Use `templates/direction.md` or an equally compact record. Append actual sketch selection and representative-image review as those steps happen; do not reconstruct an omitted stage after rendering.
 - For original work: three subject-specific concepts → two visual sketches → choose → develop a representative piece → extend the set. Sketches must differ in idea or composition, not only colour. A supplied approved direction or a narrow edit follows the short route.
 - Inspect rendered sketches before choosing. State the message, visual device, available assets and why the chosen composition serves the audience. Keep rejected directions as process evidence, not extra deliverables.
+- For original work and redesign, trace a close reference's actual masses, ink gaps, logo role and crop before choosing coordinates. Compare the representative beside it at the same feed size using `references/composition-study.md`; resolve visible inferiority before extending the set. A generic mood reference and a self-score cannot establish this gate.
 - Type, labels, lines, shapes and effects have jobs: message, hierarchy, navigation, identity or deliberate composition. Apply `references/visual-rules.md` to observable defects; a font, colour or effect is not automatically a defect.
 - Add type, logos and required UI as controllable layers; keep identity-critical subjects as source pixels. Keep masks, source assets, actual fonts and transforms for reproduction.
 - Review actual full-size and feed renders, not intentions or self-scores. Initial developed result plus at most **three correction rounds for the whole set**; a concept change consumes a round. Fix the most consequential observed defect first. Record the image, defect, action and observed result.

diff --git a/skills/cropmark/references/visual-critic.md b/skills/cropmark/references/visual-critic.md
@@ -1,0 +1,11 @@
+# Independent visual critique
+
+For substantial original work or redesign, obtain a fresh visual critique of the representative before expanding the set when native delegation is available and authorized. Use the existing agent environment; do not configure another model API. Without delegation, perform a separate viewer pass and mark it as self-review. The critique informs correction and never substitutes for required human acceptance.
+
+Give the critic the raw brief, representative full/feed PNGs, the inspected close reference images and credits, and any supplied identity asset. Withhold the producer's rationale, self-scores, proposed fix and completion claims. The critic may inspect actual bounds/source assets when needed; do not provide an intended answer. Ask it to assess the artifact as a viewer/client against the real reference at the same display size.
+
+Use this bounded review request:
+
+> Inspect these actual images before explaining them. What is recognised first; what makes the message/product/story attractive or convincing; does the title/image relationship support that promise? Compare typography, grouping, image framing/material, brand role and finish with the supplied comparator. Name the three most consequential visible differences with image/region and audience consequence. Separate observation from taste preference and uncertainty. Check required copy/identity survival. Report three separate findings: content/identity integrity; functional composition/readability; and comparative appeal/specificity. For the last, identify the visible reason to care about this particular message/product, and whether it sustains the intended reference level; mark that judgment provisional or unverified when appropriate. Then return `ready for set extension`, `needs correction`, or `unverified`, with the concrete evidence. Extension readiness must say which findings it covers; absence of clipping or collisions alone does not establish appeal. Do not infer approval from clean geometry, invent a defect to fill a list, award a self-score, or assume every reference is perfect.
+
+Preserve the verdict and the actual images. If consequential weaknesses remain, spend the next available correction on the leading cause and re-inspect. Do not convert the criticism into a justification for the existing layout. A critic's stylistic preference is not a universal rule, and a favorable verdict is not release approval. At the three-round limit, stop and disclose unresolved gaps.

diff --git a/skills/cropmark/techniques/typography.md b/skills/cropmark/techniques/typography.md
@@ -24,6 +24,6 @@ Keep semantically linked premise/answer copy closer than unrelated groups unless
 
 Expressiveness can come from width, weight, italic voice, a cropped/rotated large word, colour-field shape, a purposeful asterisk or repeated slash rhythm. Choose one coherent language that serves this subject. Do not replace every thin rule with a different stock decoration. Remove filler while retaining the contrast and substance that gave the piece character.
 
-For a quiet photo-led campaign, a useful initial wordmark size is about 2–3% of canvas width and supporting information around 2.5–3.5%; use actual ink and feed reading to adjust. This is a starting point for subordinate identity, not a ban on large brand-led typography. Avoid giving hours or minor support the weight of a headline without a visible reason. A strong minimal composition can have confident display type and much quieter supporting voices.
+Set a quiet signature by its visible ink width and cap height, and compare its prominence with the headline and subject at feed size. Record both dimensions: nominal font size, complete wordmark width and transparent image footprint are different units. Follow the supplied identity and the reference's role, rather than reusing one percentage across short marks, long names and symbol/wordmark combinations. Avoid giving hours or minor support the weight of a headline without a visible reason. Choose the actual anchor before placing the mark; a quiet photo campaign does not require a signature strip.
 
 Before delivery, declare fitted panel/group bounds and promised axes/gaps in the layout contract and run the geometric checker. Use balanced vertical padding for a fitted panel unless a visible asymmetric relation is intentional; use a maximum gap where closely related copy must remain grouped. Keep the raster review too: correct metadata does not prove optical quality.

diff --git a/skills/cropmark/techniques/photography.md b/skills/cropmark/techniques/photography.md
@@ -14,3 +14,7 @@ For supplied subjects whose identity or exact appearance the brief requires, use
 Open the cutout at full resolution on light and dark backgrounds, then inspect the final at feed size. Check silhouette, interior holes, fringe, pale residue, missing logo strokes, altered colour, translucent detail and contact/shadow consistency. Preserve the full useful subject unless the brief permits cropping.
 
 Store source, mask and processed layer separately. If the available assets/tools cannot support a faithful cutout, choose a composition retaining the photo and state the limitation. Synthetic tests or an attractive final do not establish universal photo-cutout accuracy.
+
+Before selecting a crop, identify the frame role and the subject parts that carry recognition/desire. Test the actual source-to-canvas mapping: a hero, a deliberate texture detail and a scene clue need different survival decisions. If the source already clips a required edge, disclose it or obtain a suitable authorized asset; `cover` cannot restore missing pixels. Keep a complete recognisable subject in the sequence where the brief needs it. See `../references/composition-study.md`.
+
+Preserve a supplied logo's proportions after any transparent trim: set one scale and derive the other dimension, allowing only unavoidable pixel rounding. Record source crop, rendered dimensions and visible ink anchor. Keeping the original file in the package does not prove that its displayed application is undistorted. Inspect the applied mark as well as its source hash.

diff --git a/skills/cropmark/qa/checklist.md b/skills/cropmark/qa/checklist.md
@@ -16,3 +16,5 @@ Run strict `qa.py` for the format and expected count. Inspect every full render,
 For each main group, identify its containing region and promised anchor. Compare actual ink gaps: paired padding for centred lockups, shared edges for editorial blocks, proximity between linked phrases and separation between unrelated groups. Inspect brand scale and the reason for any strip/frame. Declare these relationships in design_check only where the composition actually promises them; an intentional asymmetry must remain visibly controlled.
 
 Fitted text panels and promised axes/gaps require a declared layout check. For a note/panel, register the outer box and all actual text-ink children, then check balanced top/bottom padding (and left/right when centred). Declare a maximum gap for linked copy where relevant. A failed check is corrected or disclosed; do not skip the contract or redefine its targets to make accidental geometry pass. Large asymmetric fields and intended overlaps keep their explicit, visually verified exception.
+
+Before declaring the visual pass, use `../references/composition-study.md`: inspect the representative beside a close finished reference at the same feed size, without its rationale. Record what the viewer understands/wants and where ours is weaker. Check actual crop survival, not just type safe zones; visible logo ink, not transparent raster bounds; linked phrase gaps, not only permissive maxima. A metadata PASS cannot override an unattractive subject presentation or unexplained graphic device.

diff --git a/skills/cropmark/templates/direction.md b/skills/cropmark/templates/direction.md
@@ -3,6 +3,8 @@
 Before first render — fill briefly from the actual brief:
 - Required copy, identity, count, dimensions and permitted changes:
 - Available resources and constraints:
+- Inspected comparable piece(s): source/image, frame bounds, mass/group/crop/brand trace and estimate uncertainty:
+- Intended phrase gaps/anchors and subject parts to preserve, before rendering:
 - Concrete subject inventory:
 - Concept 1 — message → visible device → audience response:
 - Concept 2 — message → visible device → audience response:
@@ -15,8 +17,11 @@ Append after actually viewing the two sketch renders:
 
 Append after actually viewing representative full/feed renders, before extension:
 - Image paths and consequential observations:
+- Same-size comparator: three visible differences, viewer consequence and correction needed first:
 - System to extend; any correction needed first:
 
 Append after full-set review:
 - Image/region → observed defect → action → observed next render:
 - Correction rounds used (maximum three); remaining limitations:
+
+Record content integrity, functional composition and comparative appeal separately. Preserve any reviewer disagreement; extension readiness is not reference-level acceptance.

diff --git a/skills/cropmark/qa/rubric.md b/skills/cropmark/qa/rubric.md
@@ -13,3 +13,5 @@ Format lenses:
 Record: first read; idea/device; up to three problems with image/region and rule IDs; proposed corrections; what changed after viewing the next render. Correct idea before micro-detail. Three correction rounds maximum after the developed initial set; concept replacement counts. Stop early if no consequential observed defect remains, or a concrete tool/asset/permission block prevents correction. At the limit deliver with unresolved defects disclosed.
 
 Self-review is not release acceptance. Technical checks and high rubric averages alone cannot establish human approval or comparative quality. Delivery and publication follow the user's actual quality contract; report any required approval that is still pending and do not fabricate benchmark claims.
+
+Calibration of the scale requires an actual comparable artwork. Record three observed differences and their consequences using `../references/composition-study.md`; do not award 4 because the words fit and no collision was noticed. If no fair comparison is inspectable, visual reference-level quality remains unverified. This comparison does not replace the user's blind release gate.
